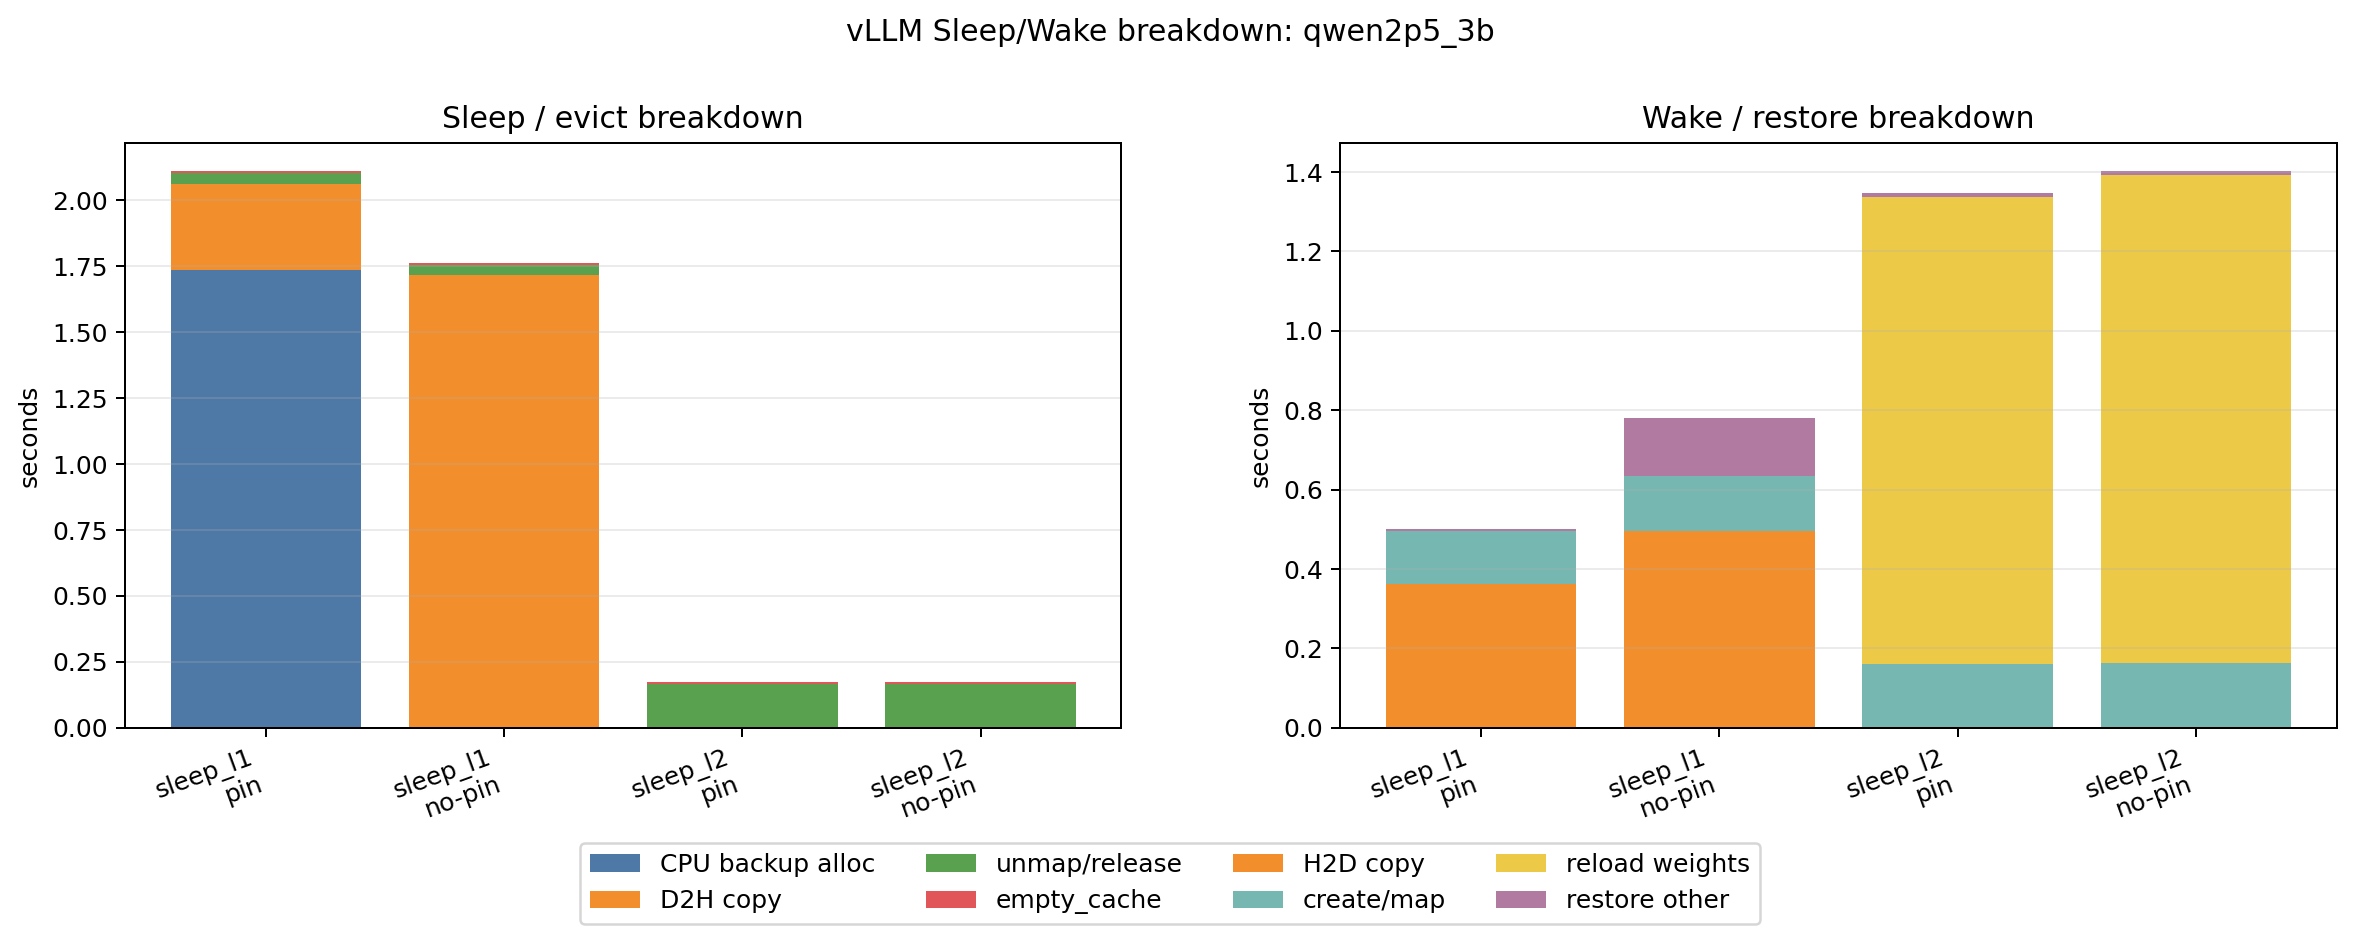
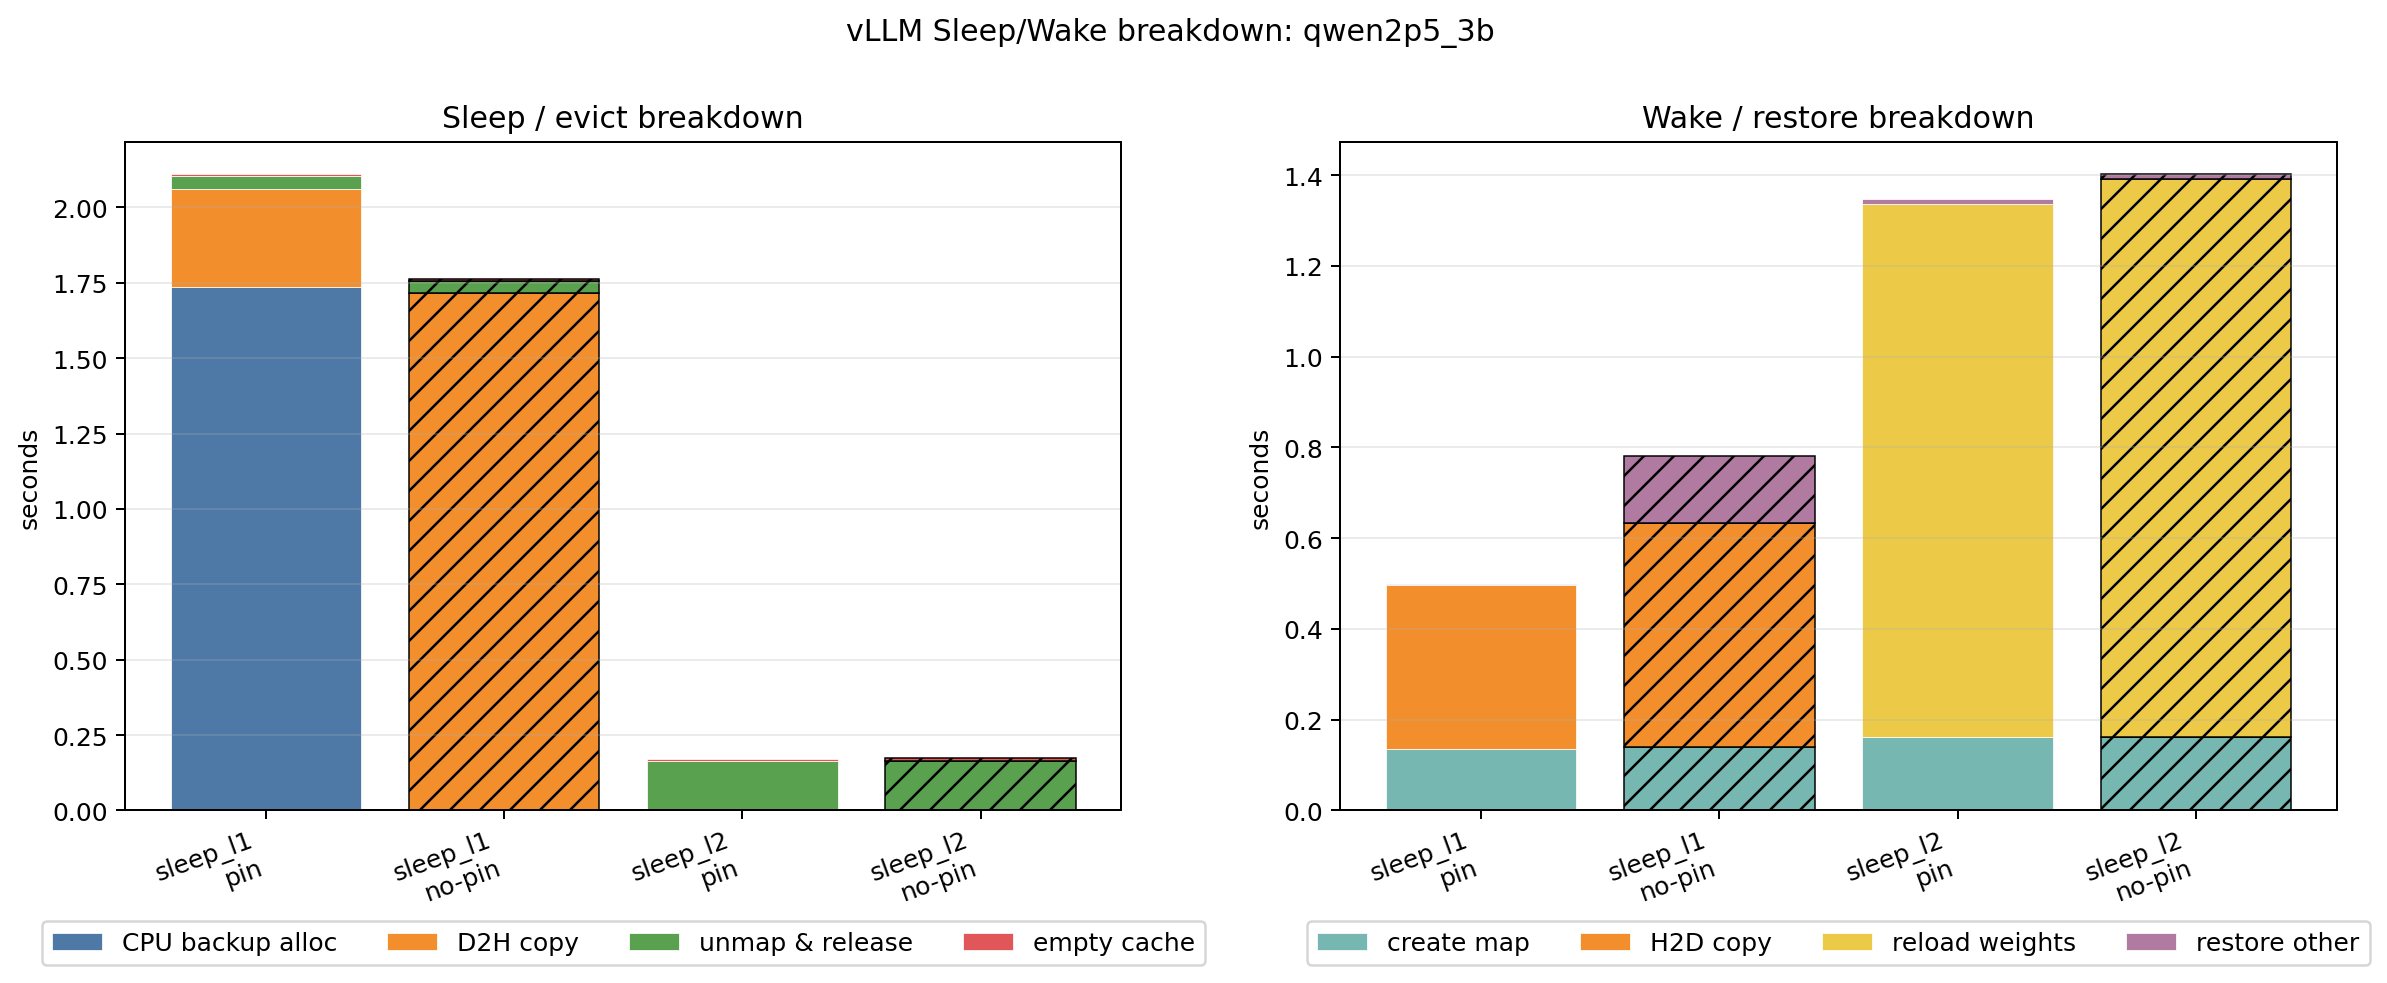
chore: vllm pin compare plot script

diff --git a/src/tool/plot_vllm_pin_compare.py b/src/tool/plot_vllm_pin_compare.py
@@ -15,13 +15,13 @@ import matplotlib.pyplot as plt
 SLEEP_COMPONENTS = [
     ("cpu_backup_alloc_s_mean", "CPU backup alloc", "#4E79A7"),
     ("copy_d2h_s_mean", "D2H copy", "#F28E2B"),
-    ("unmap_release_s_mean", "unmap/release", "#59A14F"),
-    ("empty_cache_s_mean", "empty_cache", "#E15759"),
+    ("unmap_release_s_mean", "unmap & release", "#59A14F"),
+    ("empty_cache_s_mean", "empty cache", "#E15759"),
     ("sleep_other_s", "sleep other", "#B07AA1"),
 ]
 WAKE_COMPONENTS = [
+    ("create_map_s_mean", "create map", "#76B7B2"),
     ("copy_h2d_s_mean", "H2D copy", "#F28E2B"),
-    ("create_map_s_mean", "create/map", "#76B7B2"),
     ("reload_weights_s_mean", "reload weights", "#EDC948"),
     ("wake_other_s", "restore other", "#B07AA1"),
 ]
@@ -139,11 +139,22 @@ def stack_bars(ax: Any, labels: list[str], rows: list[dict[str, Any]], component
         vals = [float(row.get(key, 0.0)) for row in rows]
         if max(vals, default=0.0) < 0.003:
             continue
-        ax.bar(x, vals, bottom=bottoms, label=label, color=color)
+        for index, val in enumerate(vals):
+            ax.bar(
+                x[index],
+                val,
+                bottom=bottoms[index],
+                label=label if index == 0 else None,
+                color=color,
+                edgecolor="black" if rows[index]["pin_memory"] == "false" else "white",
+                linewidth=0.6 if rows[index]["pin_memory"] == "false" else 0.3,
+                hatch="//" if rows[index]["pin_memory"] == "false" else None,
+            )
         bottoms = [b + v for b, v in zip(bottoms, vals)]
     ax.set_xticks(x, labels, rotation=20, ha="right")
     ax.set_ylabel("seconds")
     ax.grid(axis="y", alpha=0.25)
+    ax.legend(loc="lower center", ncol=4, bbox_to_anchor=(0.5, -0.25))
 
 
 def render_model(model: str, rows: list[dict[str, Any]], out_path: Path) -> Path:
@@ -161,14 +172,7 @@ def render_model(model: str, rows: list[dict[str, Any]], out_path: Path) -> Path
     axes[0].set_title("Sleep / evict breakdown")
     stack_bars(axes[1], labels, ordered, WAKE_COMPONENTS)
     axes[1].set_title("Wake / restore breakdown")
-    handles, labels_legend = [], []
-    for ax in axes:
-        h, l = ax.get_legend_handles_labels()
-        handles.extend(h)
-        labels_legend.extend(l)
-    dedup = dict(zip(labels_legend, handles))
-    fig.subplots_adjust(left=0.07, right=0.98, top=0.86, bottom=0.30, wspace=0.22)
-    fig.legend(dedup.values(), dedup.keys(), loc="lower center", ncol=4, bbox_to_anchor=(0.5, 0.1))
+    fig.subplots_adjust(left=0.07, right=0.98, top=0.86, bottom=0.22, wspace=0.22)
     out_path.parent.mkdir(parents=True, exist_ok=True)
     fig.savefig(out_path, dpi=180, bbox_inches="tight")
     plt.close(fig)
